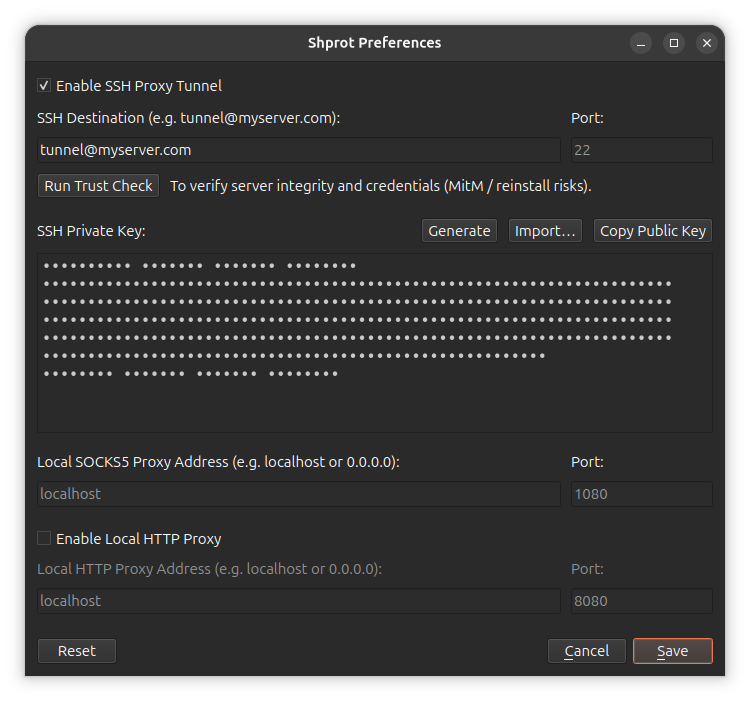
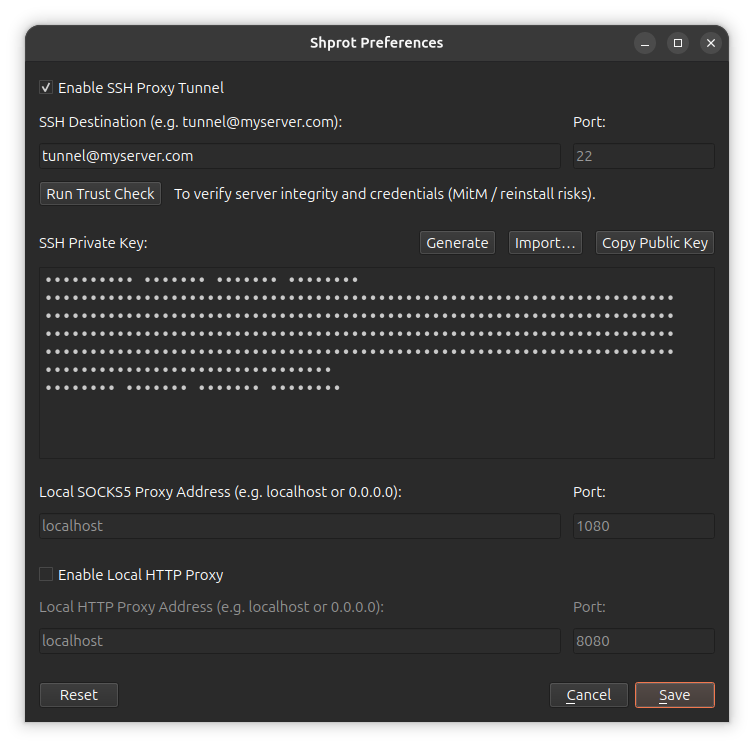
Script to take README screenshots in a VirtualBox VM, screenshots updated

diff --git a/README.md b/README.md
@@ -139,7 +139,7 @@ Shprot operates completely independently of your system's global SSH configurati
     <picture>
         <source media="(prefers-color-scheme: dark)" srcset="Assets/Screenshot-Dark.png">
         <source media="(prefers-color-scheme: light)" srcset="Assets/Screenshot-Light.png">
-        <img alt="Shprot Interface Overview" src="Assets/Screenshot-Light.png" width="750" height="701">
+        <img alt="Shprot Interface Overview" src="Assets/Screenshot-Light.png" width="754" height="747">
     </picture>
 </div>
 
